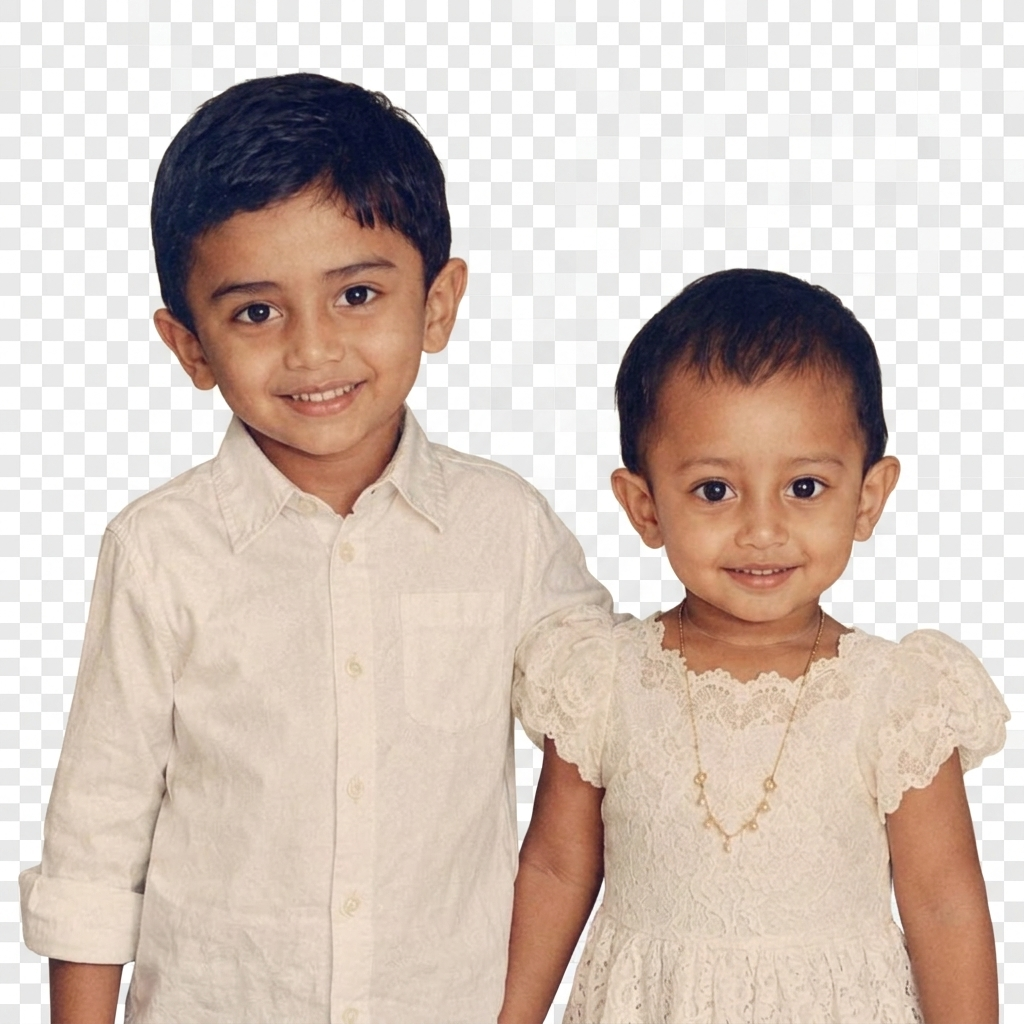
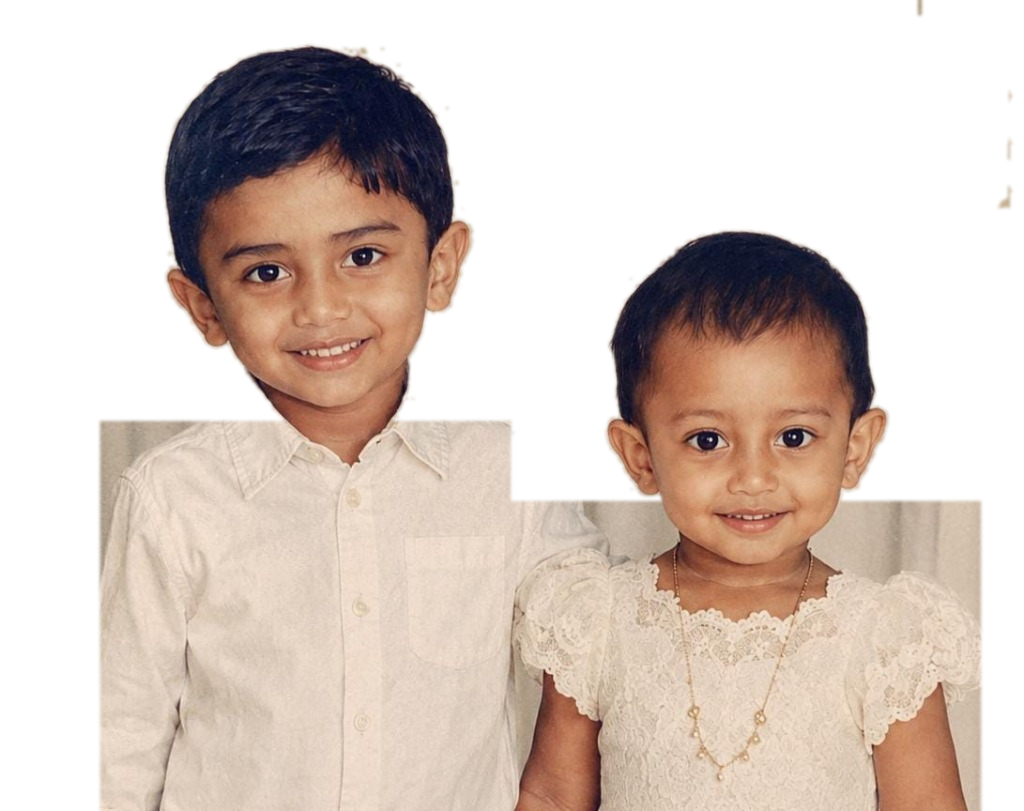
Add transparent image of children above Looking Forward To You

diff --git a/webgency.tilda.ws/blossomoud.html b/webgency.tilda.ws/blossomoud.html
@@ -638,17 +638,13 @@ alt='' imgfield='tn_img_1779543504626'
 /> </div> </div> </div> </div> <script>t_onReady(function() {t_onFuncLoad('t396_init',function() {t396_init('2339662133');});});</script> <!-- /T396 --> </div> <div id="rec2339662153" class="r t-rec" style=" " data-animationappear="off" data-record-type="396"> <!-- T396 --> <style>#rec2339662153 .t396__artboard {height:343px;background-color:#0d233a;}#rec2339662153 .t396__filter {height:343px;}#rec2339662153 .t396__carrier{height:343px;background-position:center center;background-attachment:scroll;background-size:cover;background-repeat:no-repeat;}@media screen and (max-width:1199px) {#rec2339662153 .t396__artboard,#rec2339662153 .t396__filter,#rec2339662153 .t396__carrier {}#rec2339662153 .t396__filter {}#rec2339662153 .t396__carrier {background-attachment:scroll;}}@media screen and (max-width:959px) {#rec2339662153 .t396__artboard,#rec2339662153 .t396__filter,#rec2339662153 .t396__carrier {}#rec2339662153 .t396__filter {}#rec2339662153 .t396__carrier {background-attachment:scroll;}}@media screen and (max-width:639px) {#rec2339662153 .t396__artboard,#rec2339662153 .t396__filter,#rec2339662153 .t396__carrier {}#rec2339662153 .t396__filter {}#rec2339662153 .t396__carrier {background-attachment:scroll;}}@media screen and (max-width:479px) {#rec2339662153 .t396__artboard,#rec2339662153 .t396__filter,#rec2339662153 .t396__carrier {height:343px;}#rec2339662153 .t396__filter {}#rec2339662153 .t396__carrier {background-attachment:scroll;}}#rec2339662153 .tn-elem[data-elem-id="1773673546575"]{z-index:3;top:2px;;left:calc(50% - 600px + 430px);;width:341px;height:auto;}#rec2339662153 .tn-elem[data-elem-id="1773673546575"] .tn-atom{border-radius:0px 0px 0px 0px;opacity:0.8;background-position:center center;border-width:var(--t396-borderwidth,0);border-style:var(--t396-borderstyle,solid);border-color:var(--t396-bordercolor,transparent);transition:background-color var(--t396-speedhover,0s) ease-in-out,color var(--t396-speedhover,0s) ease-in-out,border-color var(--t396-speedhover,0s) ease-in-out,box-shadow var(--t396-shadowshoverspeed,0.2s) ease-in-out;}#rec2339662153 .tn-elem[data-elem-id="1773673546575"] .tn-atom__img{border-radius:0px 0px 0px 0px;object-position:center center;}@media screen and (max-width:1199px){#rec2339662153 .tn-elem[data-elem-id="1773673546575"]{display:table;left:calc(50% - 480px + 310px);;height:auto;}}@media screen and (max-width:959px){#rec2339662153 .tn-elem[data-elem-id="1773673546575"]{display:table;left:calc(50% - 320px + 150px);;height:auto;}}@media screen and (max-width:639px){#rec2339662153 .tn-elem[data-elem-id="1773673546575"]{display:table;left:calc(50% - 240px + 70px);;height:auto;}}@media screen and (max-width:479px){#rec2339662153 .tn-elem[data-elem-id="1773673546575"]{display:table;left:calc(50% - 160px + -10px);;height:auto;}}#rec2339662153 .tn-elem[data-elem-id="1710614957366"]{z-index:3;top:calc(171.5px - 50px + 1px);;left:calc(50% - 50% + 0px);;width:100%;height:100%;}#rec2339662153 .tn-elem[data-elem-id="1710614957366"] .tn-atom{background-position:center center;border-width:var(--t396-borderwidth,0);border-style:var(--t396-borderstyle,solid);border-color:var(--t396-bordercolor,transparent);transition:background-color var(--t396-speedhover,0s) ease-in-out,color var(--t396-speedhover,0s) ease-in-out,border-color var(--t396-speedhover,0s) ease-in-out,box-shadow var(--t396-shadowshoverspeed,0.2s) ease-in-out;}@media screen and (max-width:1199px){#rec2339662153 .tn-elem[data-elem-id="1710614957366"]{display:table;}}@media screen and (max-width:959px){#rec2339662153 .tn-elem[data-elem-id="1710614957366"]{display:table;}}@media screen and (max-width:639px){#rec2339662153 .tn-elem[data-elem-id="1710614957366"]{display:table;}}@media screen and (max-width:479px){#rec2339662153 .tn-elem[data-elem-id="1710614957366"]{display:table;}}</style> <div class='t396'> <div class="t396__artboard" data-artboard-recid="2339662153" data-artboard-screens="320,480,640,960,1200" data-artboard-height="343" data-artboard-valign="center" data-artboard-upscale="grid" data-artboard-height-res-320="343"> <div class="t396__carrier" data-artboard-recid="2339662153"></div> <div class="t396__filter" data-artboard-recid="2339662153"></div> <div class='t396__elem tn-elem tn-elem__23396621531773673546575' data-elem-id='1773673546575' data-elem-type='image' data-field-top-value="2" data-field-left-value="430" data-field-height-value="341" data-field-width-value="341" data-field-axisy-value="top" data-field-axisx-value="left" data-field-container-value="grid" data-field-topunits-value="px" data-field-leftunits-value="px" data-field-heightunits-value="px" data-field-widthunits-value="px" data-field-filewidth-value="346" data-field-fileheight-value="346" data-field-widthmode-value="fixed" data-field-heightmode-value="hug" data-field-left-res-320-value="-10" data-field-height-res-320-value="341" data-field-left-res-480-value="70" data-field-height-res-480-value="341" data-field-left-res-640-value="150" data-field-height-res-640-value="341" data-field-left-res-960-value="310" data-field-height-res-960-value="341"> <div class='tn-atom'> <img class='tn-atom__img t-img' data-original='https://static.tildacdn.net/tild3531-6635-4236-b536-663734313130/Rectangle_242.svg'
 src='https://static.tildacdn.net/tild3531-6635-4236-b536-663734313130/Rectangle_242.svg'
 alt='' imgfield='tn_img_1773673546575'
-/> </div> </div> <div class='t396__elem tn-elem tn-elem__23396621531710614957366' data-elem-id='1710614957366' data-elem-type='html' data-field-top-value="1" data-field-left-value="0" data-field-height-value="100" data-field-width-value="100" data-field-axisy-value="center" data-field-axisx-value="center" data-field-container-value="window" data-field-topunits-value="px" data-field-leftunits-value="px" data-field-heightunits-value="%" data-field-widthunits-value="%"> <div class='tn-atom tn-atom__html'> <div style="display: flex; justify-content: center; align-items: center; height: 100%;"> <iframe src="https://maps.google.com/maps?q=Grand%20View%20Convention%20Centre,%20Kottakkal%20-%20Perinthalmanna%20Rd,%20Kerala&amp;t=&amp;z=15&amp;ie=UTF8&amp;iwloc=&amp;output=embed" width="335" height="335" style="border:0; border-radius:15px;" allowfullscreen="" loading="lazy" referrerpolicy="no-referrer-when-downgrade"></iframe> </div> </div> </div> </div> </div> <script>t_onReady(function() {t_onFuncLoad('t396_init',function() {t396_init('2339662153');});});</script> <!-- /T396 --> </div>
-
-<!-- Children Photo Section -->
-<div id="recChildrenPhoto" class="r t-rec" style="padding-top:35px; padding-bottom:35px; background-color:transparent; display: flex; justify-content: center; align-items: center;" data-bg-color="transparent">
-  <div style="max-width: 320px; width: 90%; text-align: center; display: flex; justify-content: center; align-items: center;">
-    <img src="children.png" alt="Salwa & Hamdan" style="width: 100%; max-width: 280px; display: block; filter: drop-shadow(0 15px 30px rgba(0,0,0,0.6));" />
+/> </div> </div> <div class='t396__elem tn-elem tn-elem__23396621531710614957366' data-elem-id='1710614957366' data-elem-type='html' data-field-top-value="1" data-field-left-value="0" data-field-height-value="100" data-field-width-value="100" data-field-axisy-value="center" data-field-axisx-value="center" data-field-container-value="window" data-field-topunits-value="px" data-field-leftunits-value="px" data-field-heightunits-value="%" data-field-widthunits-value="%"> <div class='tn-atom tn-atom__html'> <div style="display: flex; justify-content: center; align-items: center; height: 100%;"> <iframe src="https://maps.google.com/maps?q=Grand%20View%20Convention%20Centre,%20Kottakkal%20-%20Perinthalmanna%20Rd,%20Kerala&amp;t=&amp;z=15&amp;ie=UTF8&amp;iwloc=&amp;output=embed" width="335" height="335" style="border:0; border-radius:15px;" allowfullscreen="" loading="lazy" referrerpolicy="no-referrer-when-downgrade"></iframe> </div> </div> </div> </div> </div> <script>t_onReady(function() {t_onFuncLoad('t396_init',function() {t396_init('2339662153');});});</script> <!-- /T396 --> </div> <!-- Custom Children Block -->
+<div id="rec_children" class="r t-rec" style="background-color:#0d233a; padding-top:20px; padding-bottom:20px; text-align:center;">
+  <div style="max-width: 440px; margin: 0 auto; padding: 0 20px; box-sizing: border-box; display: flex; justify-content: center; align-items: center;">
+    <img src="children.png" style="width: 100%; height: auto; max-width: 320px; display: block; filter: drop-shadow(0px 10px 20px rgba(0,0,0,0.3));" alt="Children" />
   </div>
 </div>
-<!-- Children Photo Section End -->
-
- <div id="rec2339662163" class="r t-rec t-rec_pt_15 t-rec_pb_15" style="padding-top:15px;padding-bottom:15px;background-color:#0d233a; " data-animationappear="off" data-record-type="396" data-bg-color="#0d233a"> <!-- T396 --> <style>#rec2339662163 .t396__artboard {height:371px;background-color:#0d233a;}#rec2339662163 .t396__filter {height:371px;}#rec2339662163 .t396__carrier{height:371px;background-position:center center;background-attachment:scroll;background-size:cover;background-repeat:no-repeat;}@media screen and (max-width:1199px) {#rec2339662163 .t396__artboard,#rec2339662163 .t396__filter,#rec2339662163 .t396__carrier {height:371px;}#rec2339662163 .t396__filter {}#rec2339662163 .t396__carrier {background-attachment:scroll;}}@media screen and (max-width:959px) {#rec2339662163 .t396__artboard,#rec2339662163 .t396__filter,#rec2339662163 .t396__carrier {height:371px;}#rec2339662163 .t396__filter {}#rec2339662163 .t396__carrier {background-attachment:scroll;}}@media screen and (max-width:639px) {#rec2339662163 .t396__artboard,#rec2339662163 .t396__filter,#rec2339662163 .t396__carrier {height:361px;}#rec2339662163 .t396__filter {}#rec2339662163 .t396__carrier {background-attachment:scroll;}}@media screen and (max-width:479px) {#rec2339662163 .t396__artboard,#rec2339662163 .t396__filter,#rec2339662163 .t396__carrier {height:371px;}#rec2339662163 .t396__filter {}#rec2339662163 .t396__carrier {background-attachment:scroll;}}#rec2339662163 .tn-elem[data-elem-id="1763405219328"]{color:#dfba6b;text-align:center;z-index:3;top:196px;;left:calc(50% - 600px + 320px);;width:560px;height:auto;}#rec2339662163 .tn-elem[data-elem-id="1763405219328"] .tn-atom{vertical-align:middle;color:#dfba6b;font-size:41px;font-family:'newtemplate',Arial,sans-serif;line-height:1.55;font-weight:500;background-position:center center;border-width:var(--t396-borderwidth,0);border-style:var(--t396-borderstyle,solid);border-color:var(--t396-bordercolor,transparent);transition:background-color var(--t396-speedhover,0s) ease-in-out,color var(--t396-speedhover,0s) ease-in-out,border-color var(--t396-speedhover,0s) ease-in-out,box-shadow var(--t396-shadowshoverspeed,0.2s) ease-in-out;--t396-shadow-text-opacity:100%;text-shadow:var(--t396-shadow-text-x,0px) var(--t396-shadow-text-y,0px) var(--t396-shadow-text-blur,0px) rgba(var(--t396-shadow-text-color),var(--t396-shadow-text-opacity,100%));}@media screen and (max-width:1199px){#rec2339662163 .tn-elem[data-elem-id="1763405219328"]{display:table;left:calc(50% - 480px + 200px);;width:px;height:auto;}#rec2339662163 .tn-elem[data-elem-id="1763405219328"] .tn-atom{white-space:normal;background-size:cover;}}@media screen and (max-width:959px){#rec2339662163 .tn-elem[data-elem-id="1763405219328"]{display:table;left:calc(50% - 320px + 40px);;width:px;height:auto;}#rec2339662163 .tn-elem[data-elem-id="1763405219328"] .tn-atom{white-space:normal;background-size:cover;}}@media screen and (max-width:639px){#rec2339662163 .tn-elem[data-elem-id="1763405219328"]{display:table;left:calc(50% - 240px + -40px);;width:px;height:auto;}#rec2339662163 .tn-elem[data-elem-id="1763405219328"] .tn-atom{white-space:normal;background-size:cover;}}@media screen and (max-width:479px){#rec2339662163 .tn-elem[data-elem-id="1763405219328"]{display:table;left:calc(50% - 160px + -120px);;width:px;height:auto;}#rec2339662163 .tn-elem[data-elem-id="1763405219328"] .tn-atom{white-space:normal;background-size:cover;}}#rec2339662163 .tn-elem[data-elem-id="1779550300881"]{z-index:3;top:45px;;left:calc(50% - 600px + 483px);;width:213px;height:auto;}#rec2339662163 .tn-elem.t396__elem--anim-hidden[data-elem-id="1779550300881"]{opacity:0;}#rec2339662163 .tn-elem[data-elem-id="1779550300881"] .tn-atom{border-radius:0px 0px 0px 0px;background-position:center center;border-width:var(--t396-borderwidth,0);border-style:var(--t396-borderstyle,solid);border-color:var(--t396-bordercolor,transparent);transition:background-color var(--t396-speedhover,0s) ease-in-out,color var(--t396-speedhover,0s) ease-in-out,border-color var(--t396-speedhover,0s) ease-in-out,box-shadow var(--t396-shadowshoverspeed,0.2s) ease-in-out;-webkit-transform:rotate(6deg);-moz-transform:rotate(6deg);transform:rotate(6deg);}#rec2339662163 .tn-elem[data-elem-id="1779550300881"] .tn-atom__img{border-radius:0px 0px 0px 0px;object-position:center center;}@media screen and (max-width:1199px){#rec2339662163 .tn-elem[data-elem-id="1779550300881"]{display:table;left:calc(50% - 480px + 363px);;height:auto;}}@media screen and (max-width:959px){#rec2339662163 .tn-elem[data-elem-id="1779550300881"]{display:table;left:calc(50% - 320px + 203px);;height:auto;}}@media screen and (max-width:639px){#rec2339662163 .tn-elem[data-elem-id="1779550300881"]{display:table;left:calc(50% - 240px + 123px);;height:auto;}}@media screen and (max-width:479px){#rec2339662163 .tn-elem[data-elem-id="1779550300881"]{display:table;left:calc(50% - 160px + 43px);;height:auto;}}#rec2339662163 .tn-elem[data-elem-id="1779625933115000001"]{z-index:3;top:290px;;left:calc(50% - 600px + 575px);;width:50px;height:auto;}#rec2339662163 .tn-elem[data-elem-id="1779625933115000001"] .tn-atom{border-radius:0px 0px 0px 0px;background-position:center center;border-width:var(--t396-borderwidth,0);border-style:var(--t396-borderstyle,solid);border-color:var(--t396-bordercolor,transparent);transition:background-color var(--t396-speedhover,0s) ease-in-out,color var(--t396-speedhover,0s) ease-in-out,border-color var(--t396-speedhover,0s) ease-in-out,box-shadow var(--t396-shadowshoverspeed,0.2s) ease-in-out;}#rec2339662163 .tn-elem[data-elem-id="1779625933115000001"] .tn-atom__img{border-radius:0px 0px 0px 0px;object-position:center center;}@media screen and (max-width:1199px){#rec2339662163 .tn-elem[data-elem-id="1779625933115000001"]{display:table;left:calc(50% - 480px + 454px);;height:auto;}}@media screen and (max-width:959px){#rec2339662163 .tn-elem[data-elem-id="1779625933115000001"]{display:table;left:calc(50% - 320px + 294px);;height:auto;}}@media screen and (max-width:639px){#rec2339662163 .tn-elem[data-elem-id="1779625933115000001"]{display:table;left:calc(50% - 240px + 214px);;height:auto;}}@media screen and (max-width:479px){#rec2339662163 .tn-elem[data-elem-id="1779625933115000001"]{display:table;left:calc(50% - 160px + 134px);;height:auto;}}#rec2339662163 .tn-elem[data-elem-id="1779625933115000002"]{z-index:3;top:260px;;left:calc(50% - 600px + 518px);;width:165px;height:auto;}#rec2339662163 .tn-elem[data-elem-id="1779625933115000002"] .tn-atom{border-radius:0px 0px 0px 0px;background-position:center center;border-width:var(--t396-borderwidth,0);border-style:var(--t396-borderstyle,solid);border-color:var(--t396-bordercolor,transparent);transition:background-color var(--t396-speedhover,0s) ease-in-out,color var(--t396-speedhover,0s) ease-in-out,border-color var(--t396-speedhover,0s) ease-in-out,box-shadow var(--t396-shadowshoverspeed,0.2s) ease-in-out;}#rec2339662163 .tn-elem[data-elem-id="1779625933115000002"] .tn-atom__img{border-radius:0px 0px 0px 0px;object-position:center center;}@media screen and (max-width:1199px){#rec2339662163 .tn-elem[data-elem-id="1779625933115000002"]{display:table;left:calc(50% - 480px + 397px);;height:auto;}}@media screen and (max-width:959px){#rec2339662163 .tn-elem[data-elem-id="1779625933115000002"]{display:table;left:calc(50% - 320px + 237px);;height:auto;}}@media screen and (max-width:639px){#rec2339662163 .tn-elem[data-elem-id="1779625933115000002"]{display:table;left:calc(50% - 240px + 157px);;height:auto;}}@media screen and (max-width:479px){#rec2339662163 .tn-elem[data-elem-id="1779625933115000002"]{display:table;left:calc(50% - 160px + 77px);;height:auto;}}</style> <div class='t396'> <div class="t396__artboard" data-artboard-recid="2339662163" data-artboard-screens="320,480,640,960,1200" data-artboard-height="371" data-artboard-valign="center" data-artboard-upscale="grid" data-artboard-height-res-320="371" data-artboard-height-res-480="361" data-artboard-height-res-640="371" data-artboard-height-res-960="371"> <div class="t396__carrier" data-artboard-recid="2339662163"></div> <div class="t396__filter" data-artboard-recid="2339662163"></div> <div class='t396__elem tn-elem tn-elem__23396621631763405219328' data-elem-id='1763405219328' data-elem-type='text' data-field-top-value="196" data-field-left-value="320" data-field-height-value="64" data-field-width-value="560" data-field-axisy-value="top" data-field-axisx-value="left" data-field-container-value="grid" data-field-topunits-value="px" data-field-leftunits-value="px" data-field-heightunits-value="px" data-field-widthunits-value="px" data-field-textfit-value="autoheight" data-field-fontsize-value="41" data-field-left-res-320-value="-120" data-field-left-res-480-value="-40" data-field-left-res-640-value="40" data-field-left-res-960-value="200"> <div class='tn-atom'field='tn_text_1763405219328'>Looking forward to welcoming you </div> </div> <div class='t396__elem tn-elem tn-elem__23396621631779550300881 ' data-elem-id='1779550300881' data-elem-type='image' data-field-top-value="45" data-field-left-value="483" data-field-height-value="159" data-field-width-value="213" data-field-axisy-value="top" data-field-axisx-value="left" data-field-container-value="grid" data-field-topunits-value="px" data-field-leftunits-value="px" data-field-heightunits-value="px" data-field-widthunits-value="px" data-animate-mobile="y" data-animate-sbs-event="intoview" data-animate-sbs-trg="1" data-animate-sbs-trgofst="0" data-animate-sbs-opts="[{'mx':0,'my':0,'sx':1,'sy':1,'op':1,'ro':0,'ti':0,'ea':'0','dt':0},{'mx':21,'my':0,'sx':1,'sy':1,'op':1,'ro':-13,'ti':350,'ea':'easeOut','dt':300},{'mx':3,'my':0,'sx':1,'sy':1,'op':1,'ro':-1,'ti':300,'ea':'easeInOut','dt':0},{'mx':17,'my':0,'sx':1,'sy':1,'op':1,'ro':-9,'ti':300,'ea':'easeInOut','dt':0},{'mx':6,'my':0,'sx':1,'sy':1,'op':1,'ro':-3,'ti':300,'ea':'easeInOut','dt':0},{'mx':11,'my':0,'sx':1,'sy':1,'op':1,'ro':-6,'ti':300,'ea':'easeInOut','dt':0}]" data-field-filewidth-value="1200" data-field-fileheight-value="896" data-field-heightmode-value="hug" data-field-left-res-320-value="43" data-field-height-res-320-value="159" data-field-left-res-480-value="123" data-field-height-res-480-value="159" data-field-left-res-640-value="203" data-field-height-res-640-value="159" data-field-left-res-960-value="363" data-field-height-res-960-value="159"> <div class='tn-atom'> <img class='tn-atom__img t-img' data-original='https://static.tildacdn.net/tild3661-6433-4036-a330-323937363764/Create_PNG_image_cha.png'
+<div id="rec2339662163" class="r t-rec t-rec_pt_15 t-rec_pb_15" style="padding-top:15px;padding-bottom:15px;background-color:#0d233a; " data-animationappear="off" data-record-type="396" data-bg-color="#0d233a"> <!-- T396 --> <style>#rec2339662163 .t396__artboard {height:371px;background-color:#0d233a;}#rec2339662163 .t396__filter {height:371px;}#rec2339662163 .t396__carrier{height:371px;background-position:center center;background-attachment:scroll;background-size:cover;background-repeat:no-repeat;}@media screen and (max-width:1199px) {#rec2339662163 .t396__artboard,#rec2339662163 .t396__filter,#rec2339662163 .t396__carrier {height:371px;}#rec2339662163 .t396__filter {}#rec2339662163 .t396__carrier {background-attachment:scroll;}}@media screen and (max-width:959px) {#rec2339662163 .t396__artboard,#rec2339662163 .t396__filter,#rec2339662163 .t396__carrier {height:371px;}#rec2339662163 .t396__filter {}#rec2339662163 .t396__carrier {background-attachment:scroll;}}@media screen and (max-width:639px) {#rec2339662163 .t396__artboard,#rec2339662163 .t396__filter,#rec2339662163 .t396__carrier {height:361px;}#rec2339662163 .t396__filter {}#rec2339662163 .t396__carrier {background-attachment:scroll;}}@media screen and (max-width:479px) {#rec2339662163 .t396__artboard,#rec2339662163 .t396__filter,#rec2339662163 .t396__carrier {height:371px;}#rec2339662163 .t396__filter {}#rec2339662163 .t396__carrier {background-attachment:scroll;}}#rec2339662163 .tn-elem[data-elem-id="1763405219328"]{color:#dfba6b;text-align:center;z-index:3;top:196px;;left:calc(50% - 600px + 320px);;width:560px;height:auto;}#rec2339662163 .tn-elem[data-elem-id="1763405219328"] .tn-atom{vertical-align:middle;color:#dfba6b;font-size:41px;font-family:'newtemplate',Arial,sans-serif;line-height:1.55;font-weight:500;background-position:center center;border-width:var(--t396-borderwidth,0);border-style:var(--t396-borderstyle,solid);border-color:var(--t396-bordercolor,transparent);transition:background-color var(--t396-speedhover,0s) ease-in-out,color var(--t396-speedhover,0s) ease-in-out,border-color var(--t396-speedhover,0s) ease-in-out,box-shadow var(--t396-shadowshoverspeed,0.2s) ease-in-out;--t396-shadow-text-opacity:100%;text-shadow:var(--t396-shadow-text-x,0px) var(--t396-shadow-text-y,0px) var(--t396-shadow-text-blur,0px) rgba(var(--t396-shadow-text-color),var(--t396-shadow-text-opacity,100%));}@media screen and (max-width:1199px){#rec2339662163 .tn-elem[data-elem-id="1763405219328"]{display:table;left:calc(50% - 480px + 200px);;width:px;height:auto;}#rec2339662163 .tn-elem[data-elem-id="1763405219328"] .tn-atom{white-space:normal;background-size:cover;}}@media screen and (max-width:959px){#rec2339662163 .tn-elem[data-elem-id="1763405219328"]{display:table;left:calc(50% - 320px + 40px);;width:px;height:auto;}#rec2339662163 .tn-elem[data-elem-id="1763405219328"] .tn-atom{white-space:normal;background-size:cover;}}@media screen and (max-width:639px){#rec2339662163 .tn-elem[data-elem-id="1763405219328"]{display:table;left:calc(50% - 240px + -40px);;width:px;height:auto;}#rec2339662163 .tn-elem[data-elem-id="1763405219328"] .tn-atom{white-space:normal;background-size:cover;}}@media screen and (max-width:479px){#rec2339662163 .tn-elem[data-elem-id="1763405219328"]{display:table;left:calc(50% - 160px + -120px);;width:px;height:auto;}#rec2339662163 .tn-elem[data-elem-id="1763405219328"] .tn-atom{white-space:normal;background-size:cover;}}#rec2339662163 .tn-elem[data-elem-id="1779550300881"]{z-index:3;top:45px;;left:calc(50% - 600px + 483px);;width:213px;height:auto;}#rec2339662163 .tn-elem.t396__elem--anim-hidden[data-elem-id="1779550300881"]{opacity:0;}#rec2339662163 .tn-elem[data-elem-id="1779550300881"] .tn-atom{border-radius:0px 0px 0px 0px;background-position:center center;border-width:var(--t396-borderwidth,0);border-style:var(--t396-borderstyle,solid);border-color:var(--t396-bordercolor,transparent);transition:background-color var(--t396-speedhover,0s) ease-in-out,color var(--t396-speedhover,0s) ease-in-out,border-color var(--t396-speedhover,0s) ease-in-out,box-shadow var(--t396-shadowshoverspeed,0.2s) ease-in-out;-webkit-transform:rotate(6deg);-moz-transform:rotate(6deg);transform:rotate(6deg);}#rec2339662163 .tn-elem[data-elem-id="1779550300881"] .tn-atom__img{border-radius:0px 0px 0px 0px;object-position:center center;}@media screen and (max-width:1199px){#rec2339662163 .tn-elem[data-elem-id="1779550300881"]{display:table;left:calc(50% - 480px + 363px);;height:auto;}}@media screen and (max-width:959px){#rec2339662163 .tn-elem[data-elem-id="1779550300881"]{display:table;left:calc(50% - 320px + 203px);;height:auto;}}@media screen and (max-width:639px){#rec2339662163 .tn-elem[data-elem-id="1779550300881"]{display:table;left:calc(50% - 240px + 123px);;height:auto;}}@media screen and (max-width:479px){#rec2339662163 .tn-elem[data-elem-id="1779550300881"]{display:table;left:calc(50% - 160px + 43px);;height:auto;}}#rec2339662163 .tn-elem[data-elem-id="1779625933115000001"]{z-index:3;top:290px;;left:calc(50% - 600px + 575px);;width:50px;height:auto;}#rec2339662163 .tn-elem[data-elem-id="1779625933115000001"] .tn-atom{border-radius:0px 0px 0px 0px;background-position:center center;border-width:var(--t396-borderwidth,0);border-style:var(--t396-borderstyle,solid);border-color:var(--t396-bordercolor,transparent);transition:background-color var(--t396-speedhover,0s) ease-in-out,color var(--t396-speedhover,0s) ease-in-out,border-color var(--t396-speedhover,0s) ease-in-out,box-shadow var(--t396-shadowshoverspeed,0.2s) ease-in-out;}#rec2339662163 .tn-elem[data-elem-id="1779625933115000001"] .tn-atom__img{border-radius:0px 0px 0px 0px;object-position:center center;}@media screen and (max-width:1199px){#rec2339662163 .tn-elem[data-elem-id="1779625933115000001"]{display:table;left:calc(50% - 480px + 454px);;height:auto;}}@media screen and (max-width:959px){#rec2339662163 .tn-elem[data-elem-id="1779625933115000001"]{display:table;left:calc(50% - 320px + 294px);;height:auto;}}@media screen and (max-width:639px){#rec2339662163 .tn-elem[data-elem-id="1779625933115000001"]{display:table;left:calc(50% - 240px + 214px);;height:auto;}}@media screen and (max-width:479px){#rec2339662163 .tn-elem[data-elem-id="1779625933115000001"]{display:table;left:calc(50% - 160px + 134px);;height:auto;}}#rec2339662163 .tn-elem[data-elem-id="1779625933115000002"]{z-index:3;top:260px;;left:calc(50% - 600px + 518px);;width:165px;height:auto;}#rec2339662163 .tn-elem[data-elem-id="1779625933115000002"] .tn-atom{border-radius:0px 0px 0px 0px;background-position:center center;border-width:var(--t396-borderwidth,0);border-style:var(--t396-borderstyle,solid);border-color:var(--t396-bordercolor,transparent);transition:background-color var(--t396-speedhover,0s) ease-in-out,color var(--t396-speedhover,0s) ease-in-out,border-color var(--t396-speedhover,0s) ease-in-out,box-shadow var(--t396-shadowshoverspeed,0.2s) ease-in-out;}#rec2339662163 .tn-elem[data-elem-id="1779625933115000002"] .tn-atom__img{border-radius:0px 0px 0px 0px;object-position:center center;}@media screen and (max-width:1199px){#rec2339662163 .tn-elem[data-elem-id="1779625933115000002"]{display:table;left:calc(50% - 480px + 397px);;height:auto;}}@media screen and (max-width:959px){#rec2339662163 .tn-elem[data-elem-id="1779625933115000002"]{display:table;left:calc(50% - 320px + 237px);;height:auto;}}@media screen and (max-width:639px){#rec2339662163 .tn-elem[data-elem-id="1779625933115000002"]{display:table;left:calc(50% - 240px + 157px);;height:auto;}}@media screen and (max-width:479px){#rec2339662163 .tn-elem[data-elem-id="1779625933115000002"]{display:table;left:calc(50% - 160px + 77px);;height:auto;}}</style> <div class='t396'> <div class="t396__artboard" data-artboard-recid="2339662163" data-artboard-screens="320,480,640,960,1200" data-artboard-height="371" data-artboard-valign="center" data-artboard-upscale="grid" data-artboard-height-res-320="371" data-artboard-height-res-480="361" data-artboard-height-res-640="371" data-artboard-height-res-960="371"> <div class="t396__carrier" data-artboard-recid="2339662163"></div> <div class="t396__filter" data-artboard-recid="2339662163"></div> <div class='t396__elem tn-elem tn-elem__23396621631763405219328' data-elem-id='1763405219328' data-elem-type='text' data-field-top-value="196" data-field-left-value="320" data-field-height-value="64" data-field-width-value="560" data-field-axisy-value="top" data-field-axisx-value="left" data-field-container-value="grid" data-field-topunits-value="px" data-field-leftunits-value="px" data-field-heightunits-value="px" data-field-widthunits-value="px" data-field-textfit-value="autoheight" data-field-fontsize-value="41" data-field-left-res-320-value="-120" data-field-left-res-480-value="-40" data-field-left-res-640-value="40" data-field-left-res-960-value="200"> <div class='tn-atom'field='tn_text_1763405219328'>Looking forward to welcoming you </div> </div> <div class='t396__elem tn-elem tn-elem__23396621631779550300881 ' data-elem-id='1779550300881' data-elem-type='image' data-field-top-value="45" data-field-left-value="483" data-field-height-value="159" data-field-width-value="213" data-field-axisy-value="top" data-field-axisx-value="left" data-field-container-value="grid" data-field-topunits-value="px" data-field-leftunits-value="px" data-field-heightunits-value="px" data-field-widthunits-value="px" data-animate-mobile="y" data-animate-sbs-event="intoview" data-animate-sbs-trg="1" data-animate-sbs-trgofst="0" data-animate-sbs-opts="[{'mx':0,'my':0,'sx':1,'sy':1,'op':1,'ro':0,'ti':0,'ea':'0','dt':0},{'mx':21,'my':0,'sx':1,'sy':1,'op':1,'ro':-13,'ti':350,'ea':'easeOut','dt':300},{'mx':3,'my':0,'sx':1,'sy':1,'op':1,'ro':-1,'ti':300,'ea':'easeInOut','dt':0},{'mx':17,'my':0,'sx':1,'sy':1,'op':1,'ro':-9,'ti':300,'ea':'easeInOut','dt':0},{'mx':6,'my':0,'sx':1,'sy':1,'op':1,'ro':-3,'ti':300,'ea':'easeInOut','dt':0},{'mx':11,'my':0,'sx':1,'sy':1,'op':1,'ro':-6,'ti':300,'ea':'easeInOut','dt':0}]" data-field-filewidth-value="1200" data-field-fileheight-value="896" data-field-heightmode-value="hug" data-field-left-res-320-value="43" data-field-height-res-320-value="159" data-field-left-res-480-value="123" data-field-height-res-480-value="159" data-field-left-res-640-value="203" data-field-height-res-640-value="159" data-field-left-res-960-value="363" data-field-height-res-960-value="159"> <div class='tn-atom'> <img class='tn-atom__img t-img' data-original='https://static.tildacdn.net/tild3661-6433-4036-a330-323937363764/Create_PNG_image_cha.png'
 src='../thb.tildacdn.net/tild3661-6433-4036-a330-323937363764/-/resize/20x/Create_PNG_image_cha.png'
 alt='' imgfield='tn_img_1779550300881'
 /> </div> </div> <div class='t396__elem tn-elem tn-elem__23396621631779625933115000001' data-elem-id='1779625933115000001' data-elem-type='image' data-field-top-value="290" data-field-left-value="575" data-field-height-value="55" data-field-width-value="50" data-field-axisy-value="top" data-field-axisx-value="left" data-field-container-value="grid" data-field-topunits-value="px" data-field-leftunits-value="px" data-field-heightunits-value="px" data-field-widthunits-value="px" data-field-filewidth-value="172" data-field-fileheight-value="189" data-field-heightmode-value="hug" data-field-left-res-320-value="134" data-field-height-res-320-value="55" data-field-left-res-480-value="214" data-field-height-res-480-value="55" data-field-left-res-640-value="294" data-field-height-res-640-value="55" data-field-left-res-960-value="454" data-field-height-res-960-value="55"> <div class='tn-atom'> <img class='tn-atom__img t-img' data-original='https://static.tildacdn.net/tild6166-3862-4533-b931-323630393862/Fine-line_flowers_Mo.png'
